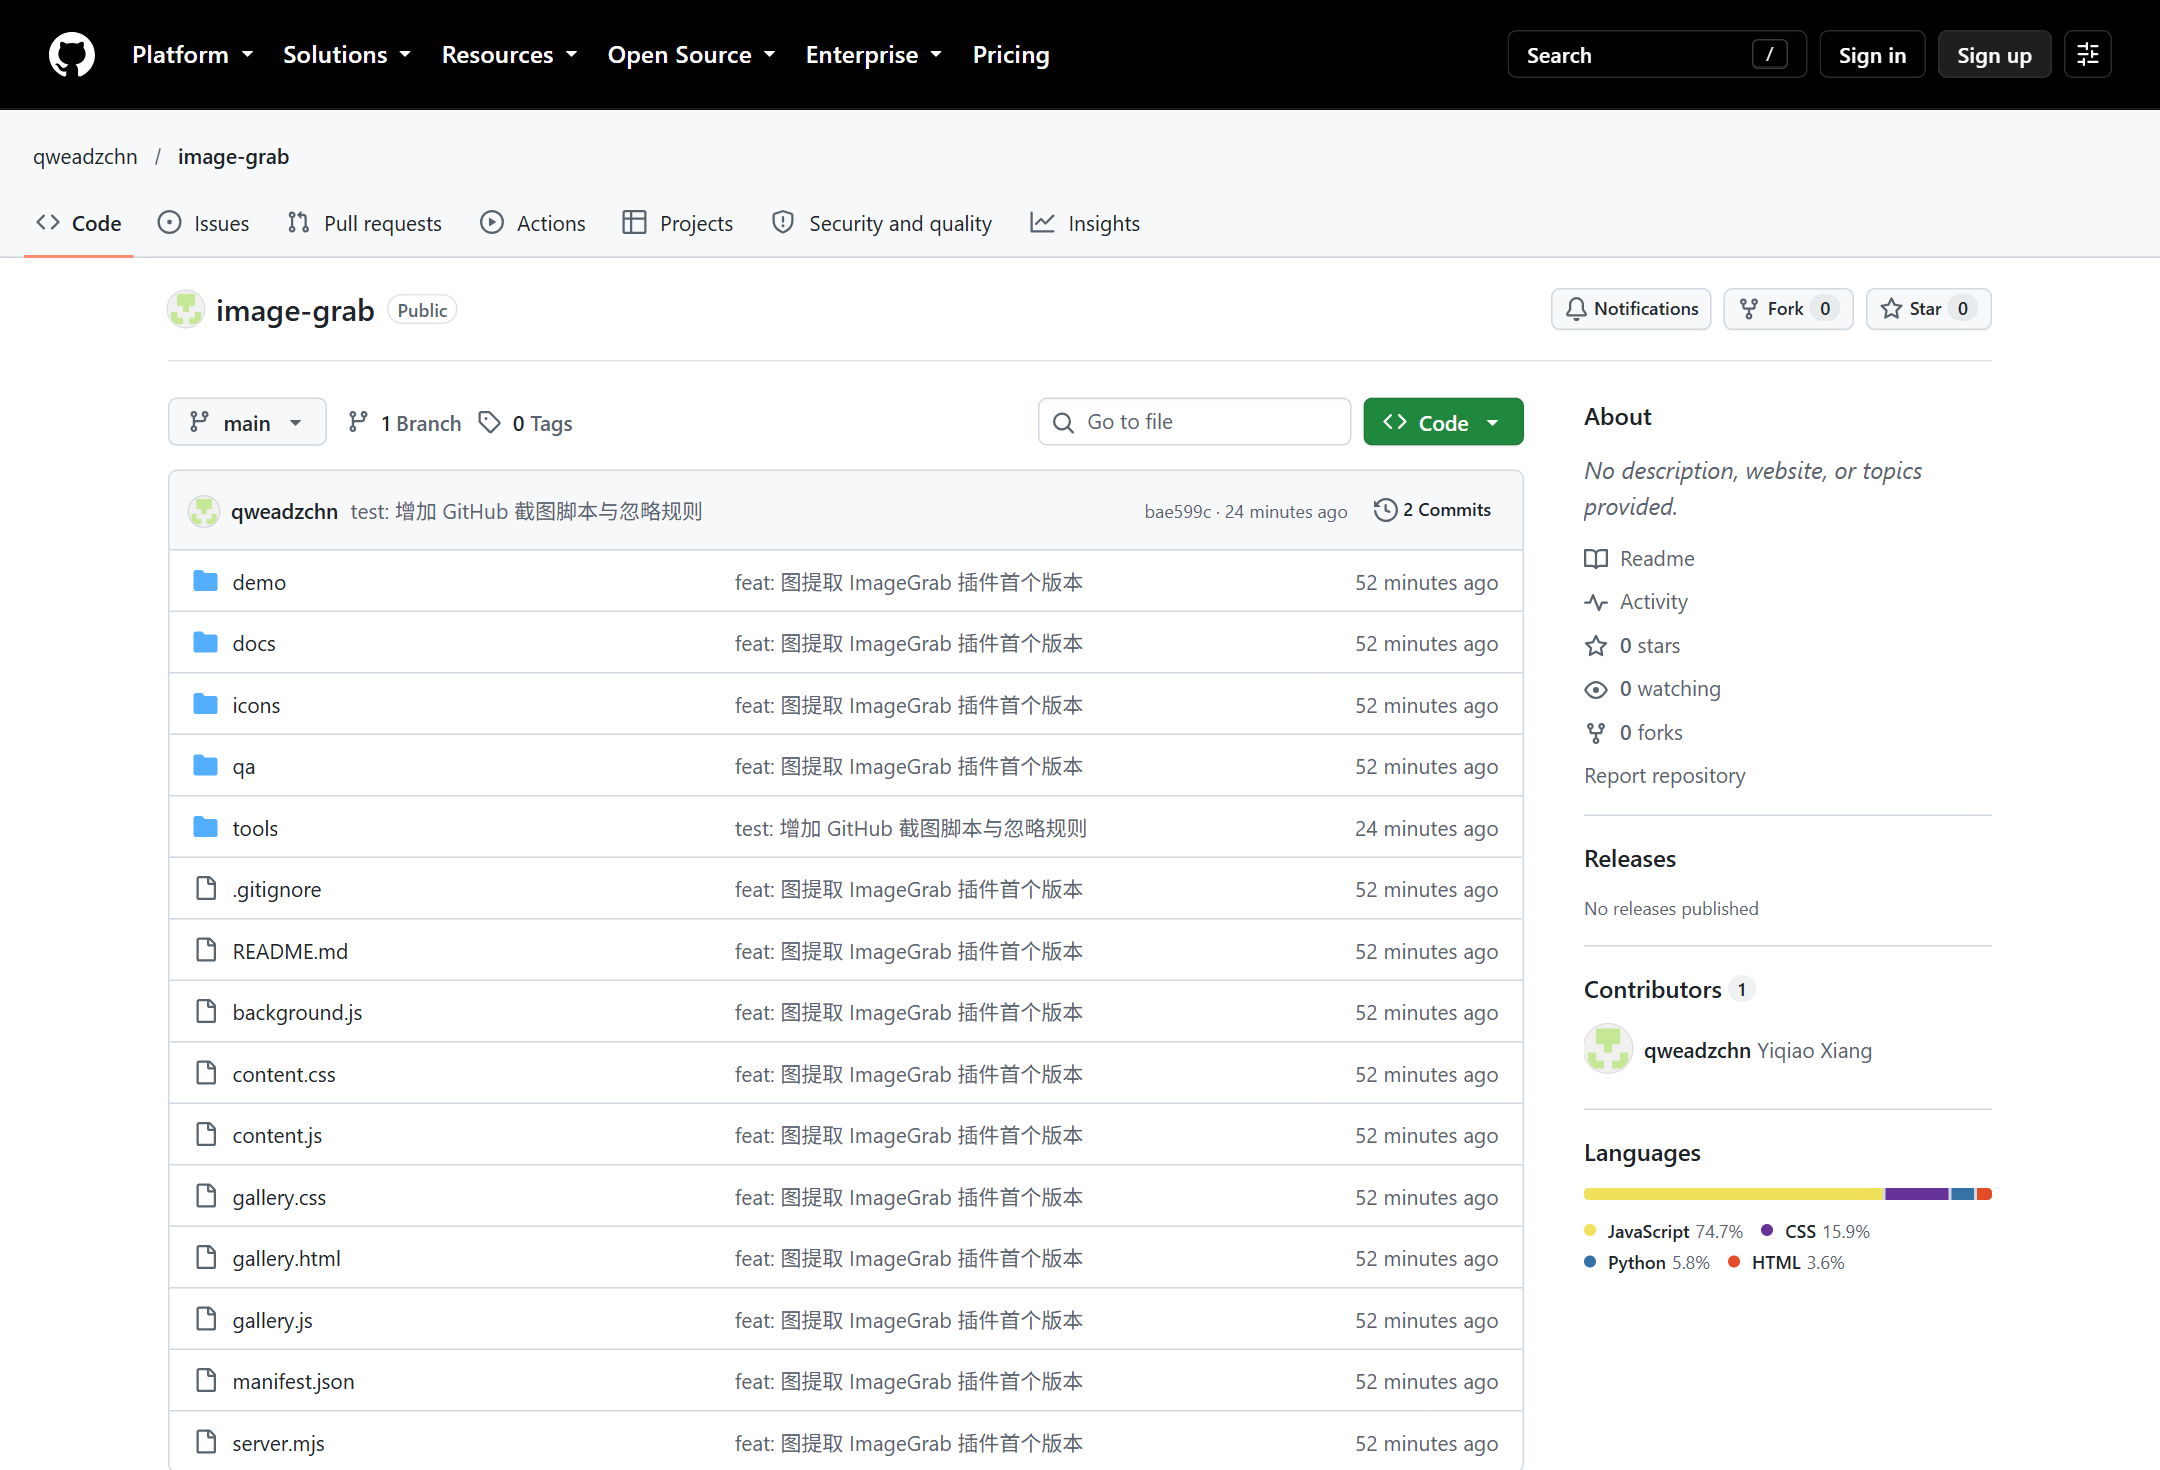
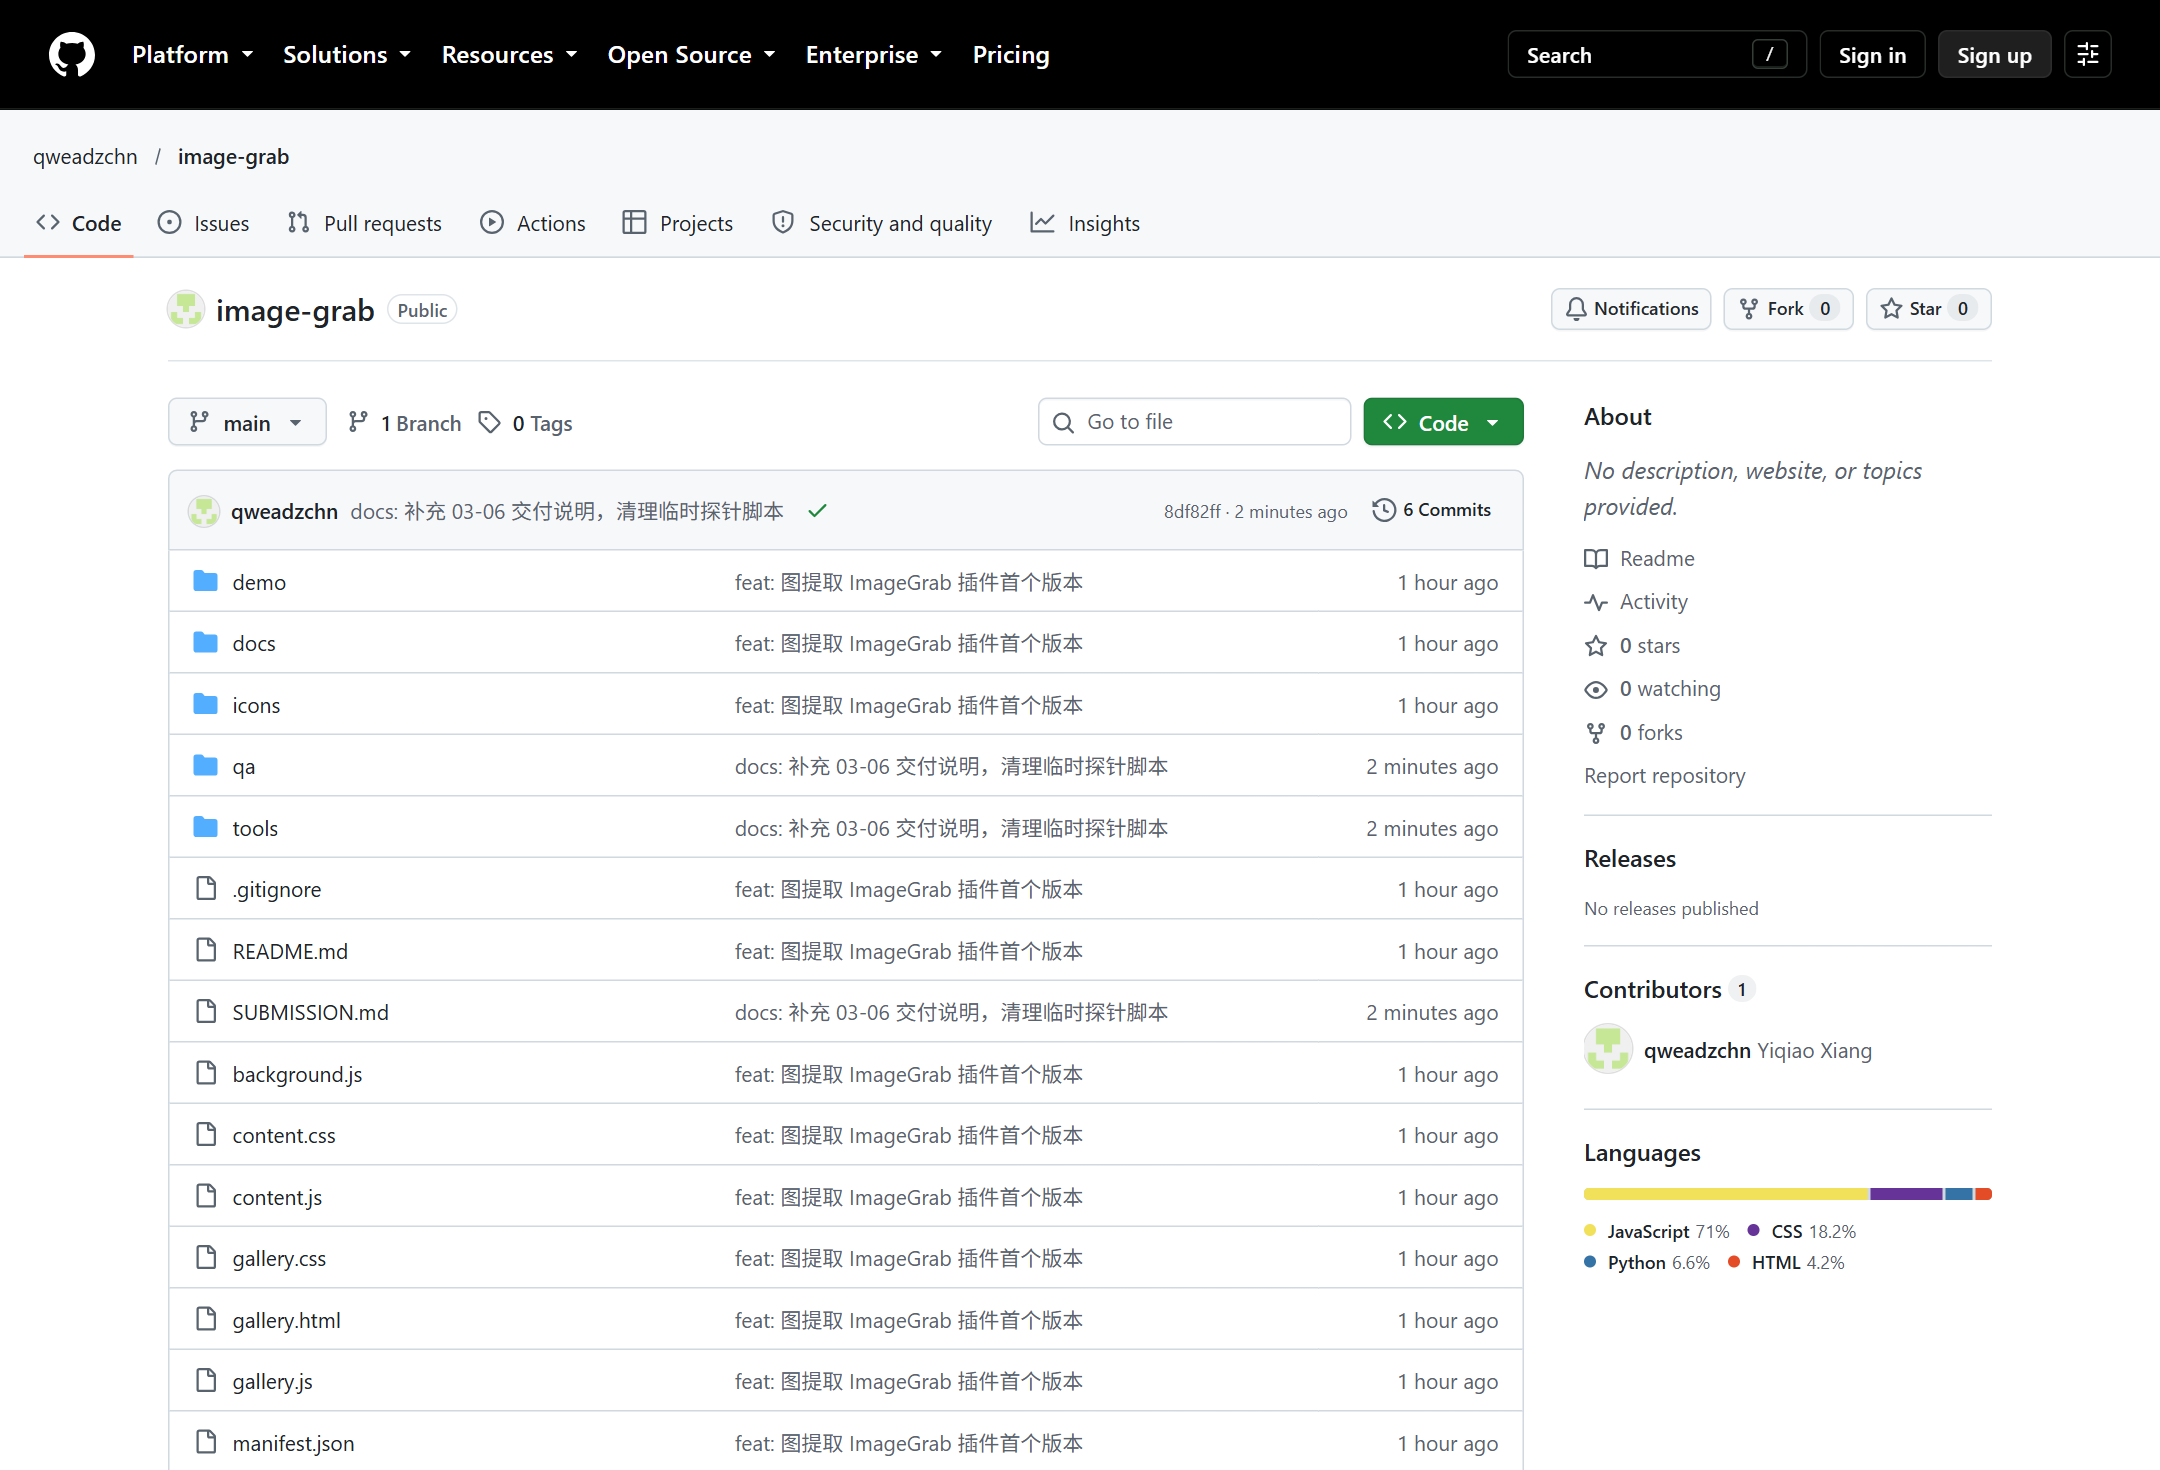
docs: 同步线上 Pages 与仓库页验收截图

diff --git a/SUBMISSION.md b/SUBMISSION.md
@@ -25,7 +25,12 @@ Manifest V3 扩展负责扫图与下载，`docs/` 是纯静态官网，仓库推
 
 ## 04：项目推送到 GitHub 上的截图
 
-对应文件：`qa/04-github-repo.png`（仓库首页，含 README、目录结构、提交记录）
+对应文件：
+
+| 文件 | 内容 |
+| --- | --- |
+| `qa/04-github-repo.png` | 仓库首页（文件列表、提交记录、main 分支） |
+| `qa/04-github-readme.png` | README 渲染效果（官网地址、功能表、目录结构） |
 
 仓库：<https://github.com/qweadzchn/image-grab>
 
